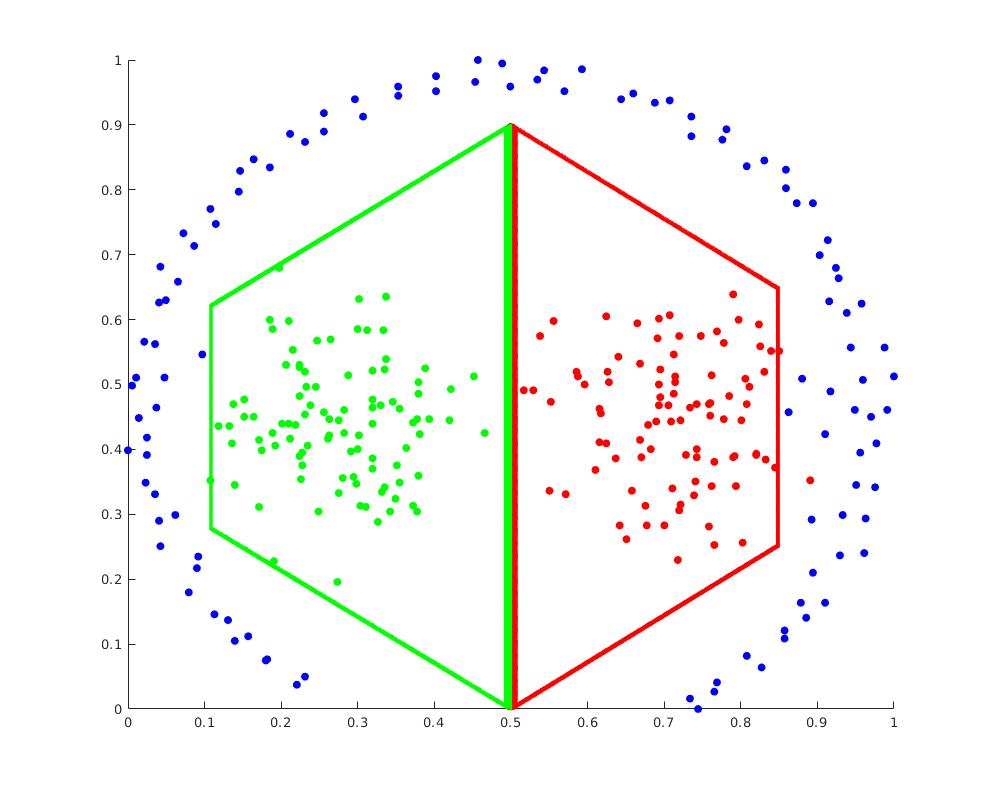
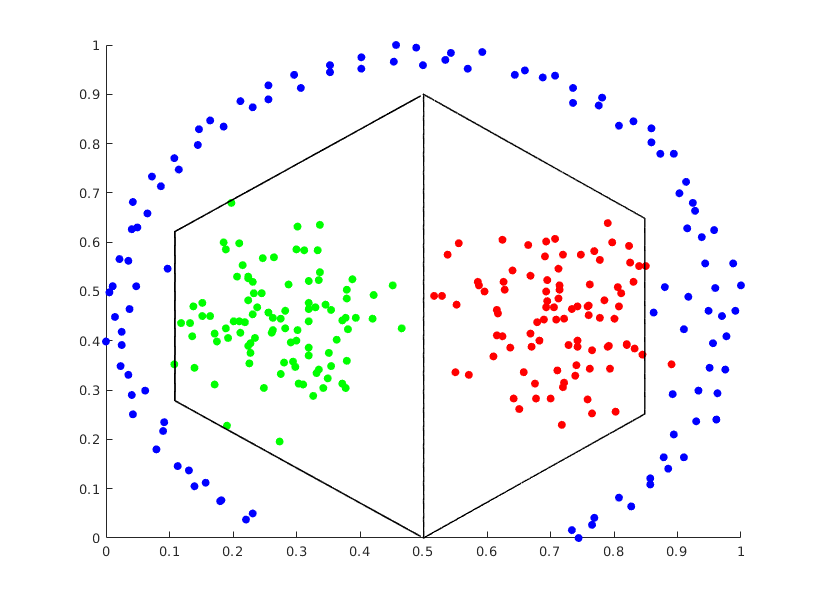
update example

diff --git a/example_decision_line.m b/example_decision_line.m
@@ -30,22 +30,19 @@ decision_points_three = [];
 ih = 1;
 
 for j = 1:length(z)
-   if abs(z(j,1) - z(j,2)) < 0.01 && z(j,1) > z(j,3)
+   if abs(z(j,1) - z(j,2)) < 0.001 && abs(z(j,1) - z(j,3)) > 0.01
     decision_points_one(io,:) = points(j,:);
     io = io + 1; 
-   end
-  if abs(z(j,1) - z(j,3)) < 0.01 && z(j,1) > z(j,2)
+   elseif abs(z(j,1) - z(j,3)) < 0.001 && z(j,1) > z(j,2)
     decision_points_two(it,:) = points(j,:);
     it = it + 1; 
-  end
-  if abs(z(j,2) - z(j,3)) < 0.01 && z(j,2) > z(j,1)
+   elseif abs(z(j,2) - z(j,3)) < 0.001 && z(j,2) > z(j,1)
     decision_points_three(ih,:) = points(j,:);
     ih = ih + 1; 
-  end
-  if abs(z(j,2) - z(j,3)) < 0.001 && abs(z(j,1) - z(j,3)) < 0.001
+   elseif abs(z(j,2) - z(j,3)) < 0.001 && abs(z(j,1) - z(j,3)) < 0.001
     decision_points_three(ih,:) = points(j,:);
     ih = ih + 1; 
-  end
+   end
 end
 
 [~, data] = max(t_train, [], 2);
@@ -60,8 +57,8 @@ scatter(x_two(:,1), x_two(:,2), 'filled', 'g');
 hold on
 scatter(x_three(:,1), x_three(:,2), 'filled', 'r');
 hold on
-scatter(decision_points_one(:,1), decision_points_one(:,2), 4, 'filled', 'g'); 
+scatter(decision_points_one(:,1), decision_points_one(:,2), 2, 'filled', 'black'); 
 hold on
-scatter(decision_points_two(:,1), decision_points_two(:,2), 4, 'filled', 'r'); 
-hold on
-scatter(decision_points_three(:,1), decision_points_three(:,2), 4, 'filled', 'b'); 
+scatter(decision_points_two(:,1), decision_points_two(:,2), 2, 'filled', 'black'); 
+% hold on
+% scatter(decision_points_three(:,1), decision_points_three(:,2), 4, 'filled', 'b'); 

diff --git a/README.md b/README.md
@@ -2,7 +2,7 @@
 
 MATLAB codes for the article (to be published) on Morphological and Hybrid Morphological/Linear Perceptrons that are trained by extreme learning machine technique.
 
-The image below shows the decisionline for the Morphological Perceptron on the pathbased dataset. The big advantage of this model is the possibility of non-differencial decision curves trained rapidly with great capacity for generalization due to the training method.
+The image below shows the decisionline for the Morphological Perceptron on the pathbased dataset. The big advantage of this model is the possibility of non-differencial decision curves trained rapidly with great capacity for generalization due to the learning method.
 
 ![alt decisionline](pathbased.png)
 
